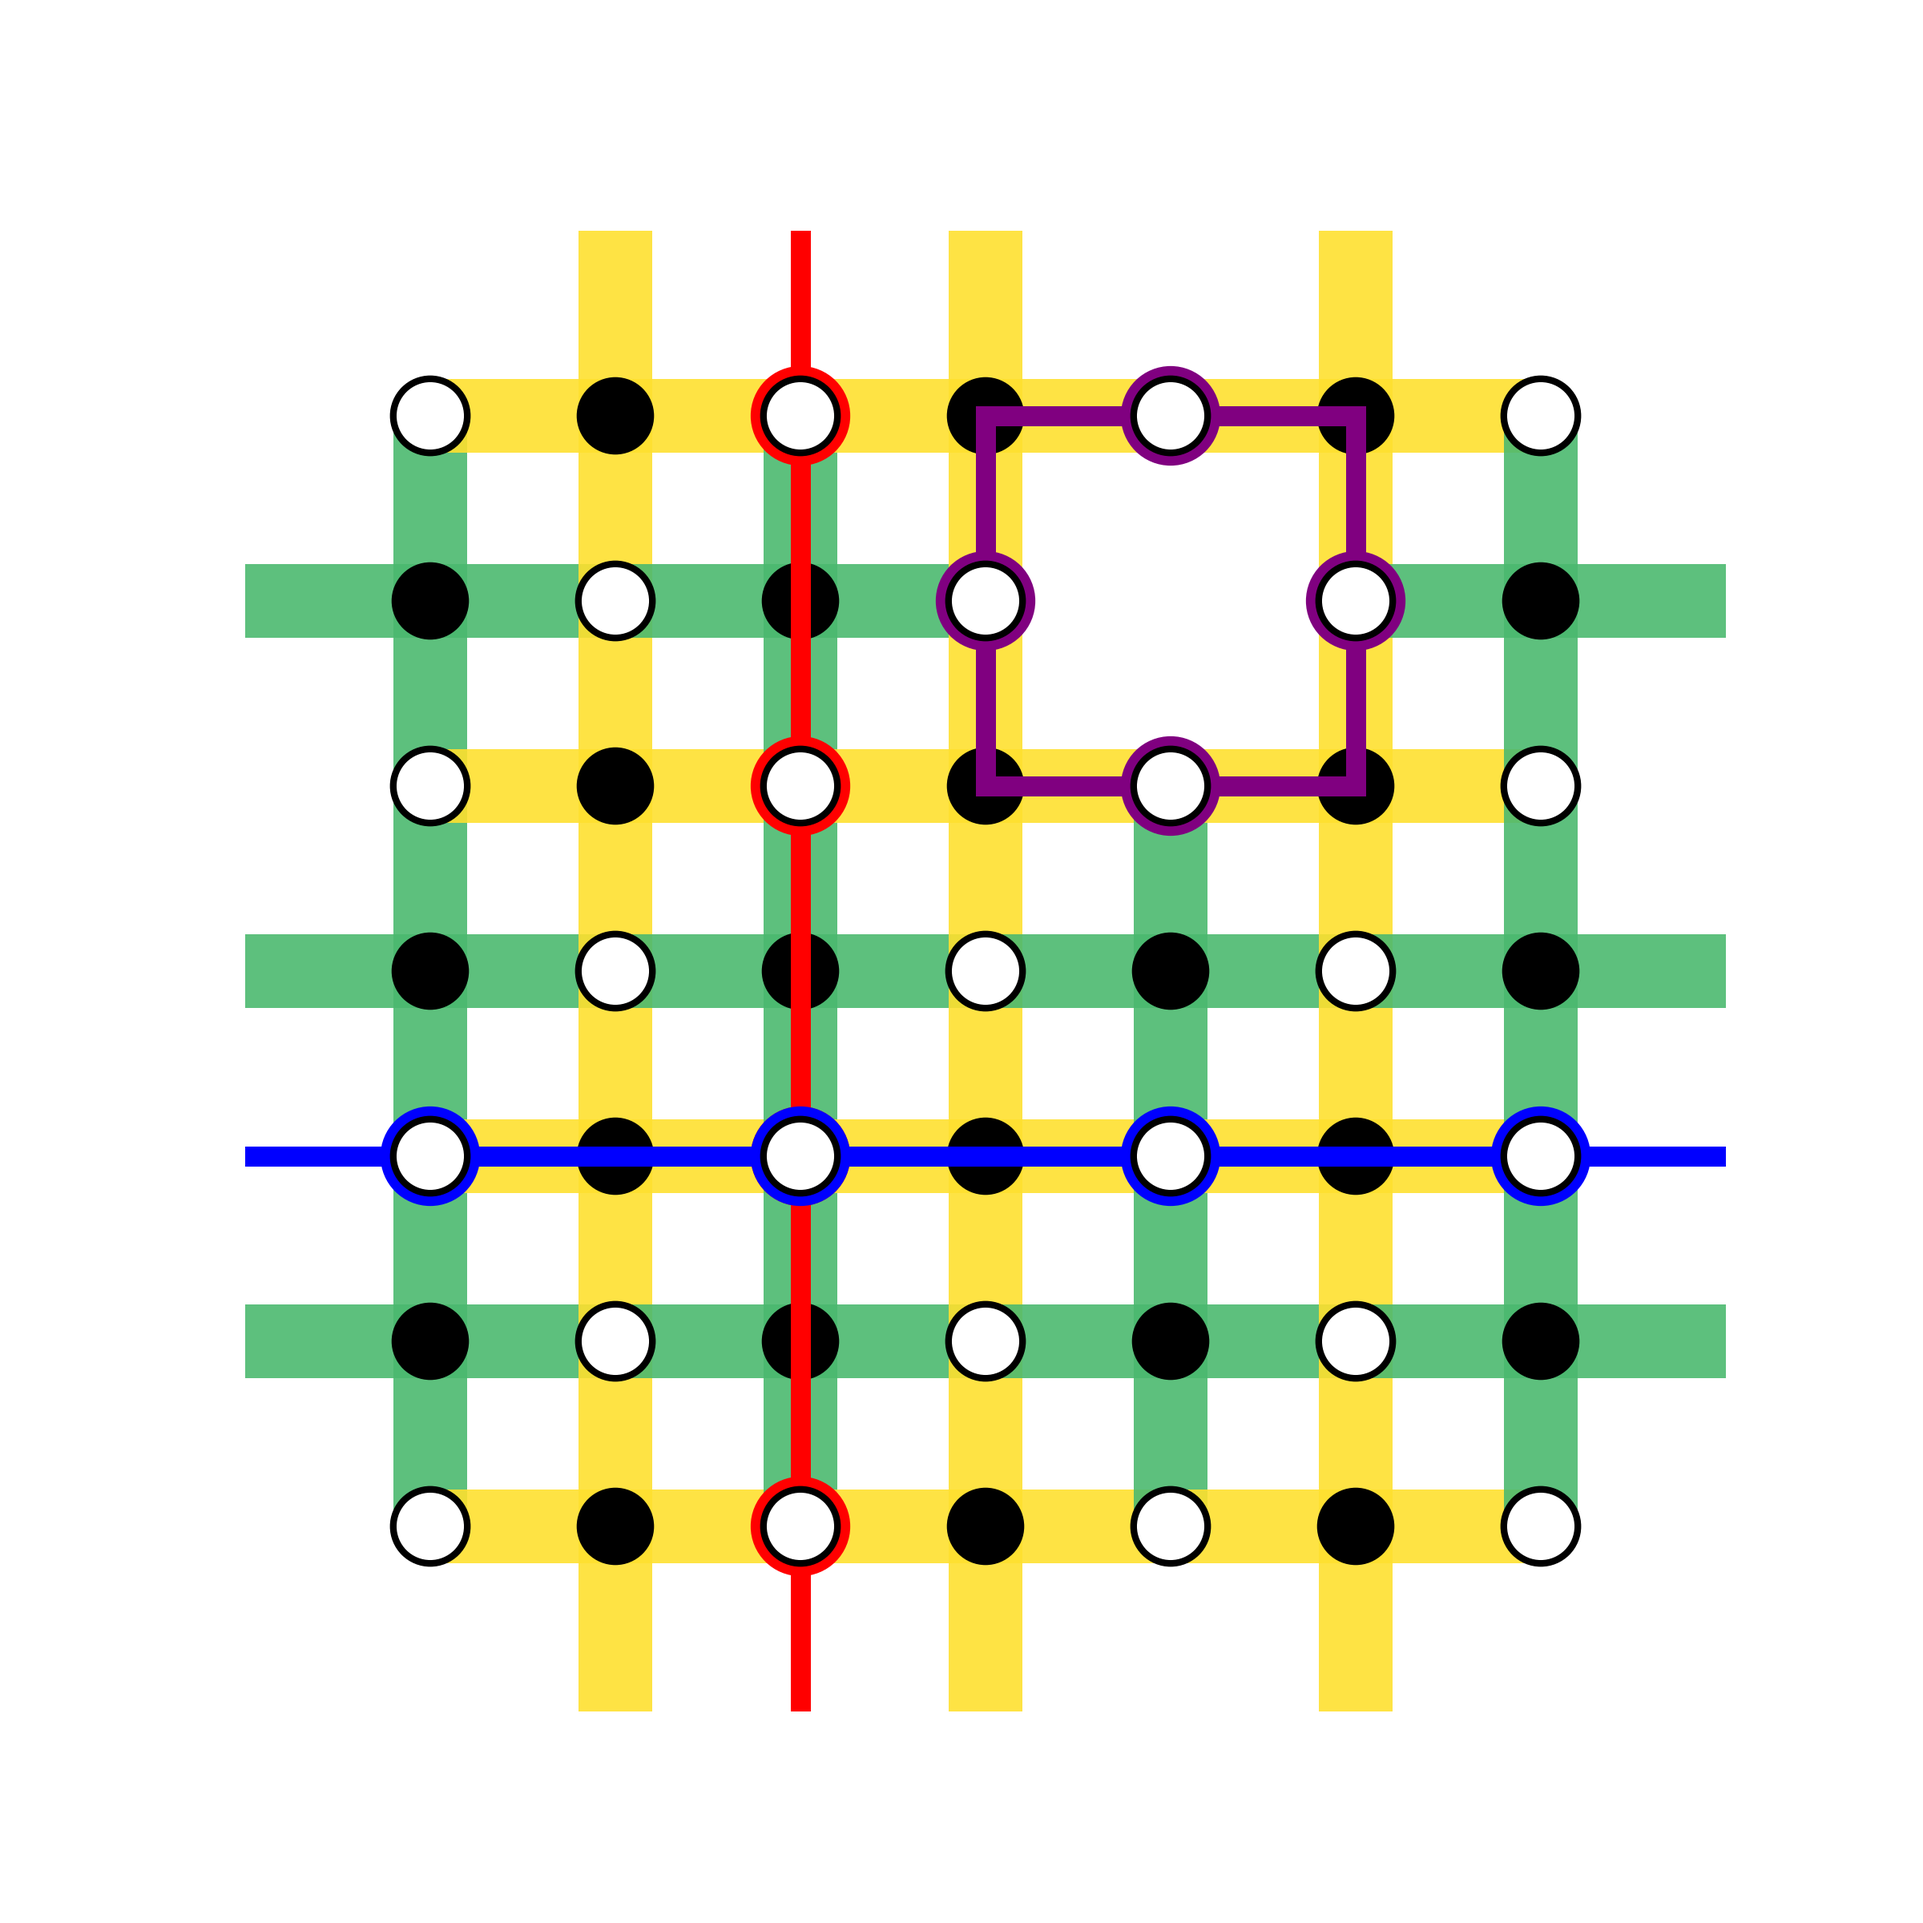
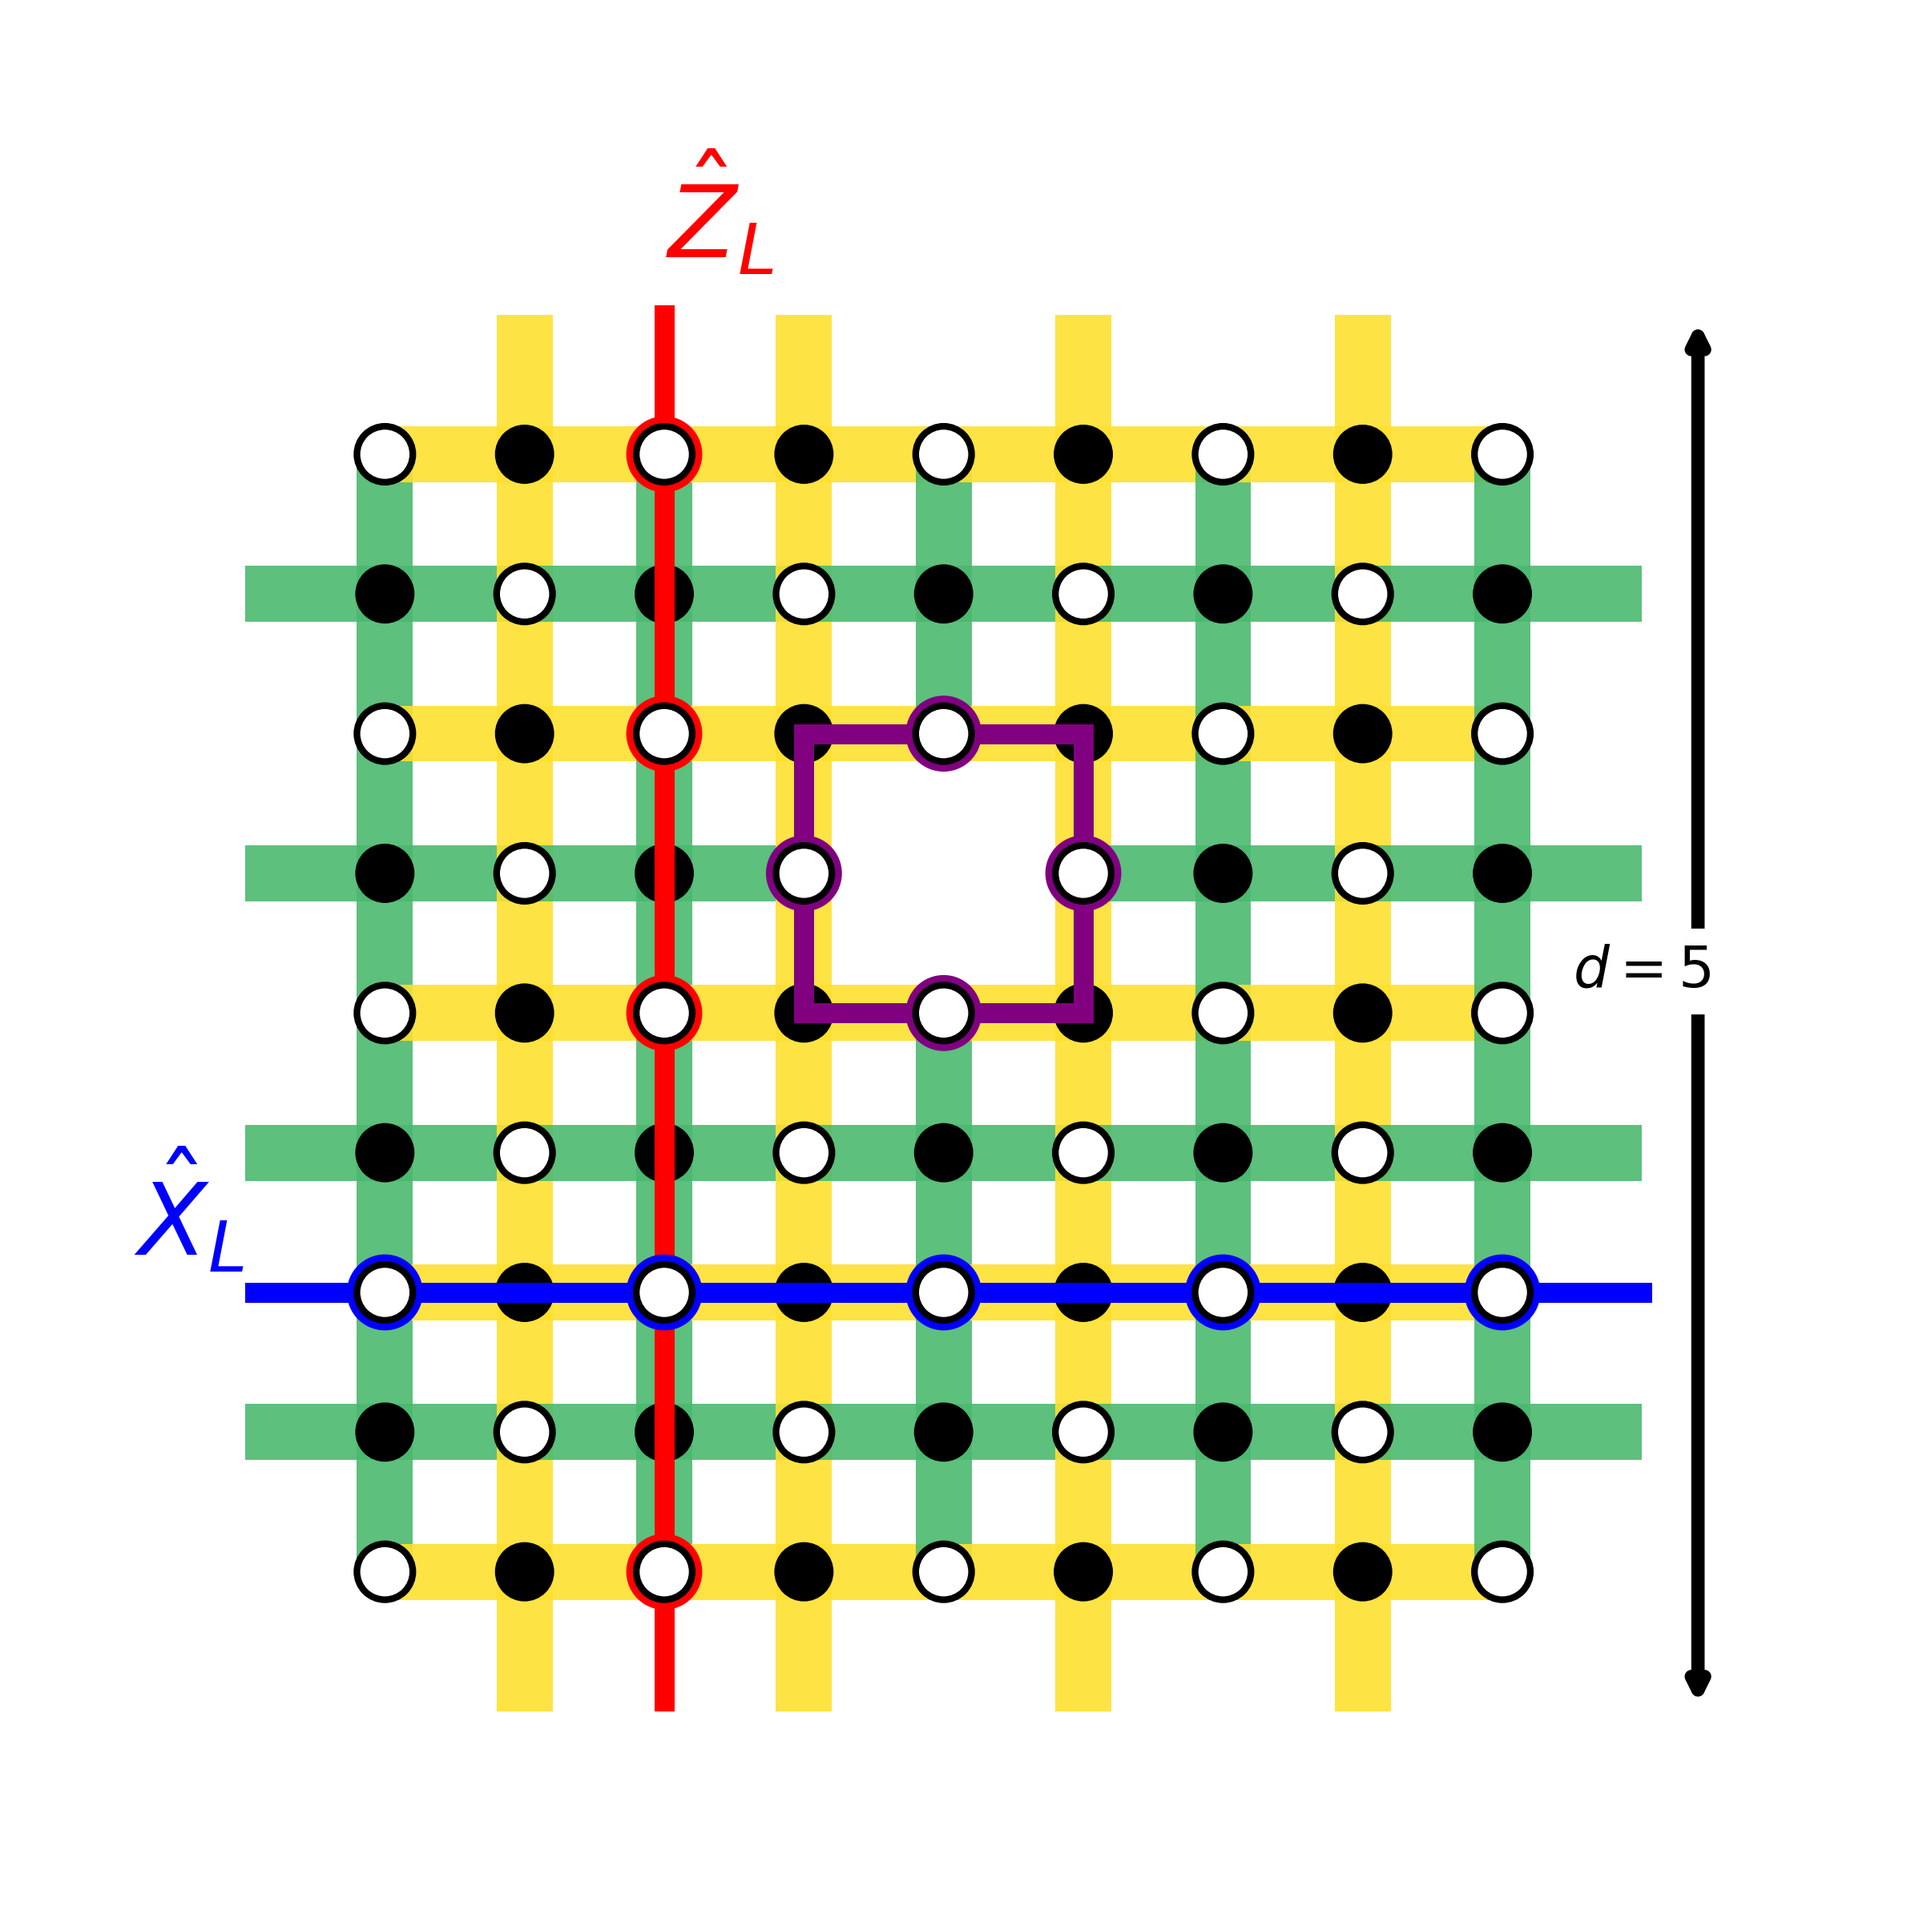
better logical operators rapresentation

diff --git a/plot/logical_operators.py b/plot/logical_operators.py
@@ -5,7 +5,7 @@ from matplotlib.patches import Rectangle
 fig, ax = plt.subplots(figsize=(8, 8))
 
 # Define grid size (number of stabilizers in each dimension)
-grid_size = 7
+grid_size = 9
 
 # Generate positions for a chessboard pattern
 positions = [(i, j) for i in range(grid_size) for j in range(grid_size)]
@@ -34,8 +34,7 @@ for i in range(grid_size):
             else:
                 data_qubits.append((i / 2, j / 2))
 
-
-# remove the stabilizer at coordinates (2.0, 3.5)
+# remove the stabilizer at coordinates (2.0, 2.5)
 stabilizer_positions.remove((2.0, 2.5))
 
 # Plot colored "+"-shaped regions for stabilizers
@@ -87,17 +86,26 @@ for (x, y) in logical_hole:
 for (x, y) in data_qubits:
     ax.add_patch(plt.Circle((x, y), radius=0.1, color='white', ec='black', lw=2, zorder=5))
 
-
 # Plot stabilizers (black circles)
 for (i, j) in stabilizer_positions:
     ax.add_patch(plt.Circle((i, j), radius=0.1, color='black', zorder=3))
 
+# Add double arrow with label
+ax.annotate(
+    '', xy=((grid_size / 2) + 0.2, grid_size / 2), xytext=((grid_size / 2) + 0.2, -0.5),
+    arrowprops=dict(arrowstyle='<->', color='black', lw=4)
+)
+ax.text(grid_size / 2 , grid_size / 4 - 0.1, '$d = 5$', color='black', fontsize=17, ha='center', va='center', backgroundcolor='white')
 
 # Adjust axis limits and appearance
-ax.set_xlim(-0.5, grid_size / 2)
-ax.set_ylim(-0.5, grid_size / 2)
+ax.set_xlim(-0.5, (grid_size / 2) + 0.3)
+ax.set_ylim(-0.5, (grid_size / 2) + 0.3)
 
 ax.set_aspect('equal')
 plt.axis('off')
+
+# Add text annotations
+ax.text(-0.7, 1.13, '$\\hat{X}_L$', color='blue', fontsize=30, ha='center', weight="bold")
+ax.text(1.2, 4.7, '$\\hat{Z}_L$', color='red', fontsize=30, ha='center', weight="bold")
 
 plt.savefig("surface_code_plot_logical_operator.png", dpi=300) #bbox_inches="tight"
